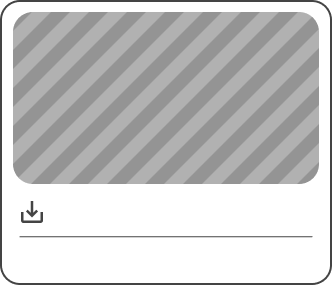
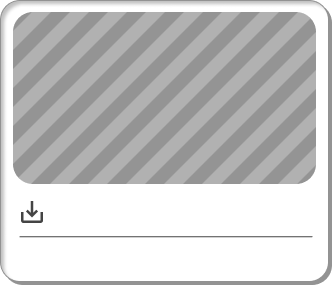
202 : 저장하기 UI 리소스 수정 및 배치

Changed region(s): [[0.0, 0.0, 1.0, 1.0]]

diff --git a/data/others/plugin/theme_kopanda_bth_06_blue/bth06.css b/data/others/plugin/theme_kopanda_bth_06_blue/bth06.css
@@ -217,10 +217,10 @@ animation-iteration-count: 1;
 /* サムネイル画像の設定 */
 .save_list_item_thumb img {
 	position: absolute;
-	top:45px; left:59px;
+	top:44px; left:58px;
 	/* border: white 1px solid; */
 	border-radius: 20px;
-	width: 305.78px;
+	width: 303px;
 	height: 172px;
 	margin: 0;
 	padding: 0;
@@ -267,7 +267,7 @@ background: url('/New_GUI/New_GUI/Save_UI/Save_Bt_01.png');
 	color: #000000;
 	font-weight: normal;
 	font-size:20px;
-	font-family: TheJamsil1Thin;
+	font-family: NanumGothicRegular;
 	box-sizing: border-box;
 }
 
@@ -291,7 +291,7 @@ background: url('/New_GUI/New_GUI/Save_UI/Save_Bt_01.png');
 	color: #000000;
 	font-weight: normal;
 	font-size:20px;
-	font-family: TheJamsil5Bold;
+	font-family: NanumGothicRegular;
 }
 
 .save_list_item_subheading {
@@ -303,29 +303,30 @@ background: url('/New_GUI/New_GUI/Save_UI/Save_Bt_01.png');
 	color: #000000;
 	font-weight: normal;
 	font-size:20px;
-	font-family: TheJamsil1Thin;
+	font-family: NanumGothicRegular;
 	box-sizing: border-box;
 }
 
 /* セーブデータのテキストの設定 */
 .save_list_item_text {
 	display: block;
-	width: 150px;
+	width: 192px;
 	 text-overflow: ellipsis;
     	white-space: nowrap;
      	overflow: hidden;
-	height: 36px;
+	height: 42px;
 	margin: 0;
 	padding: 0 0 0 5px;
 	line-height: 1.5;
-	color: #000000;
+	color: #fff;
 	font-weight: normal;
-	font-family: TheJamsil1Thin;
-	font-size:24px;
+	font-family: NanumGothicBold;
+	/* text-shadow: -1px 0 #444444, 0 1px #444444, 1px 0 #444444, 0 -1px #444444; */
+	font-size:25px;
 	overflow: hidden;
 	box-sizing: border-box;
 	position: absolute;
-	left: 92px;
+	left: 85px;
 	top:77px;
 }
 /* ロード画面

diff --git a/data/others/plugin/theme_kopanda_bth_06_blue/html/save.html b/data/others/plugin/theme_kopanda_bth_06_blue/html/save.html
@@ -1,6 +1,6 @@
 <div>
 
-	<div class='menu_item menu_close' style='float:left;margin:0;position:absolute;left:33px;top:965px'>
+	<div class='menu_item menu_close' style='float:left;margin:0;position:absolute;left:50px;top:1000px;'>
 	<img src='data/image/New_GUI/Save_UI/UI_Close_Bt_01.png' />
 	</div>
 
